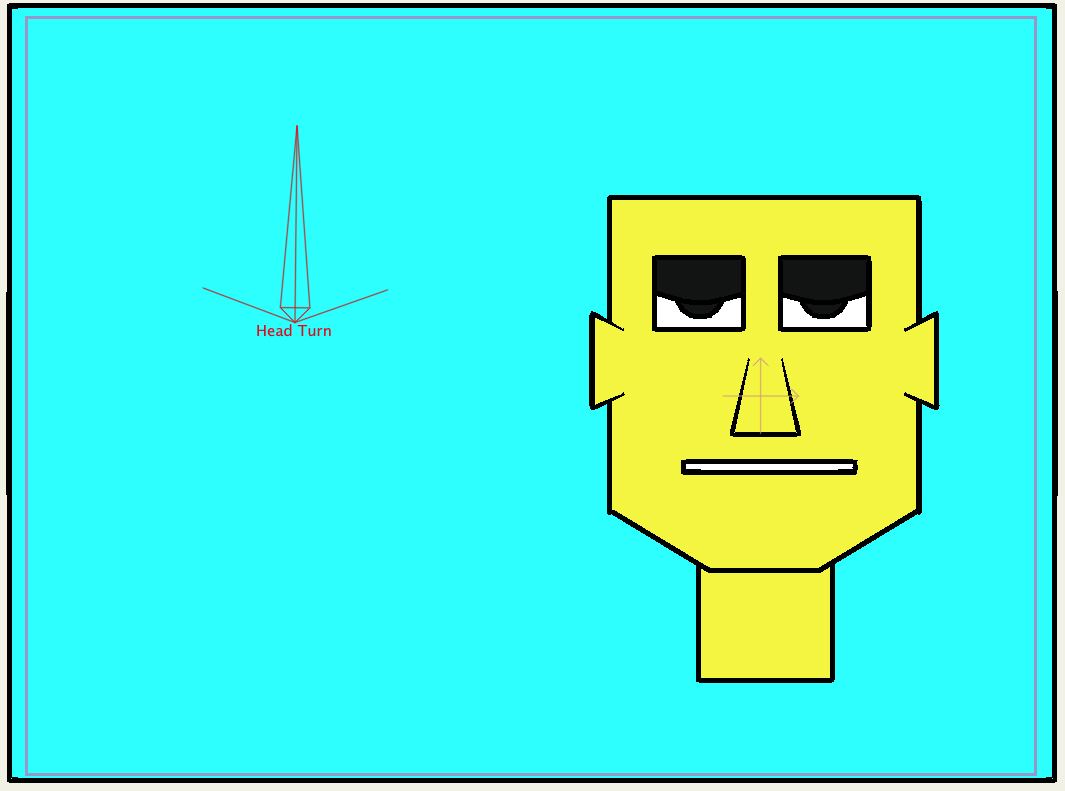
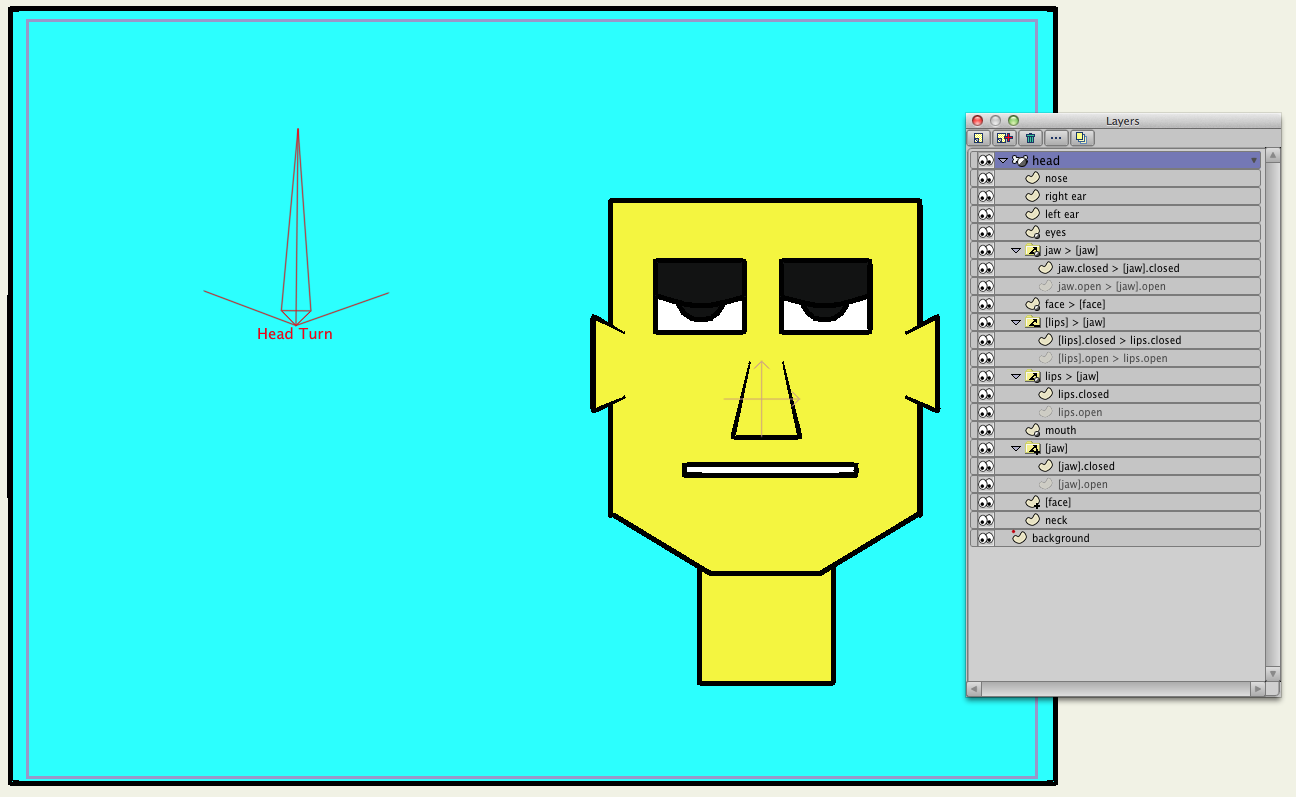
- updates to documentation

diff --git a/projects/selgin-head-turn/README.md b/projects/selgin-head-turn/README.md
@@ -3,11 +3,27 @@ selgin-head-turn
 
 Gilbert Concepcion (aka "selgin") is a talented artist, animator and Anime Studio user who conceived [a clever approach](http://www.lostmarble.com/forum/viewtopic.php?t=15846) for smoothly animating a turning head. He describes a realistic example [here](https://vimeo.com/28938430) (pass: selgin).
 
-Selgin's approach utilizes advanced masking techniques and fazek's [meshinstance layer script.](http://www.lostmarble.com/forum/viewtopic.php?t=15845). Selgin's approach was almost exactly what I had been looking for. What the approach didn't handle was using switch layers to support Anime Studio's built-in lip syncing. 
+Selgin's approach utilizes advanced masking techniques and fazek's [meshinstance layer script.](http://www.lostmarble.com/forum/viewtopic.php?t=15845). Selgin's approach was almost exactly what I was looking for. What the approach didn't handle was using switch layers to support Anime Studio's built-in lip syncing. 
 
-This project illustrates a variation on selgin's head turn approach that includes using switch layers for the mouth and jaw.
+This project illustrates a variation on selgin's head turn approach that includes using switch layers for the mouth and jaw. The project has been tested with Anime Studio Pro 9.5.
 
 ![](images/Switch-Mouth-and-Chin-640x480.gif)
 
-The project relies on two layer scripts included [in this repo](../../scripts/layer/README.md): GWB_MoveTogethe and GWB_SwitchTogether. The former, a re-factored version of fazek's and ramon0's meshinstance layer script, is used to replicate point motion and curvature across vector layers. The latter replicates switching keyframes across switch layers.
+Overview
+--------
+
+![](images/head-turn-action.png)
+
+The project relies on two layer scripts included [in this repo](../../scripts/layer): GWB_MoveTogether and GWB_SwitchTogether. The former, a re-factored version of fazek's and ramon0's meshinstance layer script, is used to replicate point motion and curvature across vector layers. The latter replicates keyframes across switch layers. The approach also relies on animated layer ordering and relatively complex layer masking. 
+
+A layer naming convention is adopted to convey individual layer functions and their relationships to one another. A layer name in square brackets signifies the layer acts as an invisible mask e.g., "[face]". A layer name of the form "name1 > name2" indicates that the layer, representing "name1", is linked by a layer script to the layer named "name2". For those familiar with the meshinstance layer script, "name2" is acting as a "source" layer and "name1" is acting as a "dup" (duplicate) layer.  For example, the (dup) layer named "face > [face]" indicates that the layer, representing the "face" is linked to the (source) "[face]" layer.
+
+If a switch layer is linked to another layer, then the linked layer's switch keyframes are duplicates of the source layer's e.g., "jaw > [jaw]" keyframes are duplicates of the "[jaw]" layer's keyframes. The [GWB_SwitchTogether](../../scripts/layer/GWB_SwitchTogether.lua) layer script is used to accomplish this behavior. If a vector layer is linked to another layer, then the linked layer's point motion and curvature are duplicates of the source layer's e.g., "[lips].closed > lips.closed" point motion/curvature are duplicates of the "lips.closed" layer's point motion/curvature. The [GWB_MoveTogether](../../scripts/layer/GWB_MoveTogether.lua) layer script is used to accomplish this behavior. 
+
+Because a "source" layer acts as a "master" layer, and a "dup" layer acts as a "slave", modifications need only be made to "source" layers, and "dup" layers are automatically updated via the layer scripts. In this project then, only the "[jaw]" switch layer is used to control switching behavior of the other three linked switch layers. And only the point motion/curvature of the vector layers "[jaw].open", "[jaw].close", "lips.open", "lips.close" and "[face]" need to be modified because the point motion/curvature of other five linked vector layers are updated automatically.
+
+Because of this master/slave relationship between layers, all linked layers can be ignored when animating: the "jaw > [jaw]" switch layer and its sub-layers, the "face > [face]" vector layer, the "[lips] > [jaw]" switch layer and its sub-layers, and the "lips > [jaw]" switch layer (but not its sub-layers).
+
+There's a more detailed explanation of the masking behavior here.
+
 
